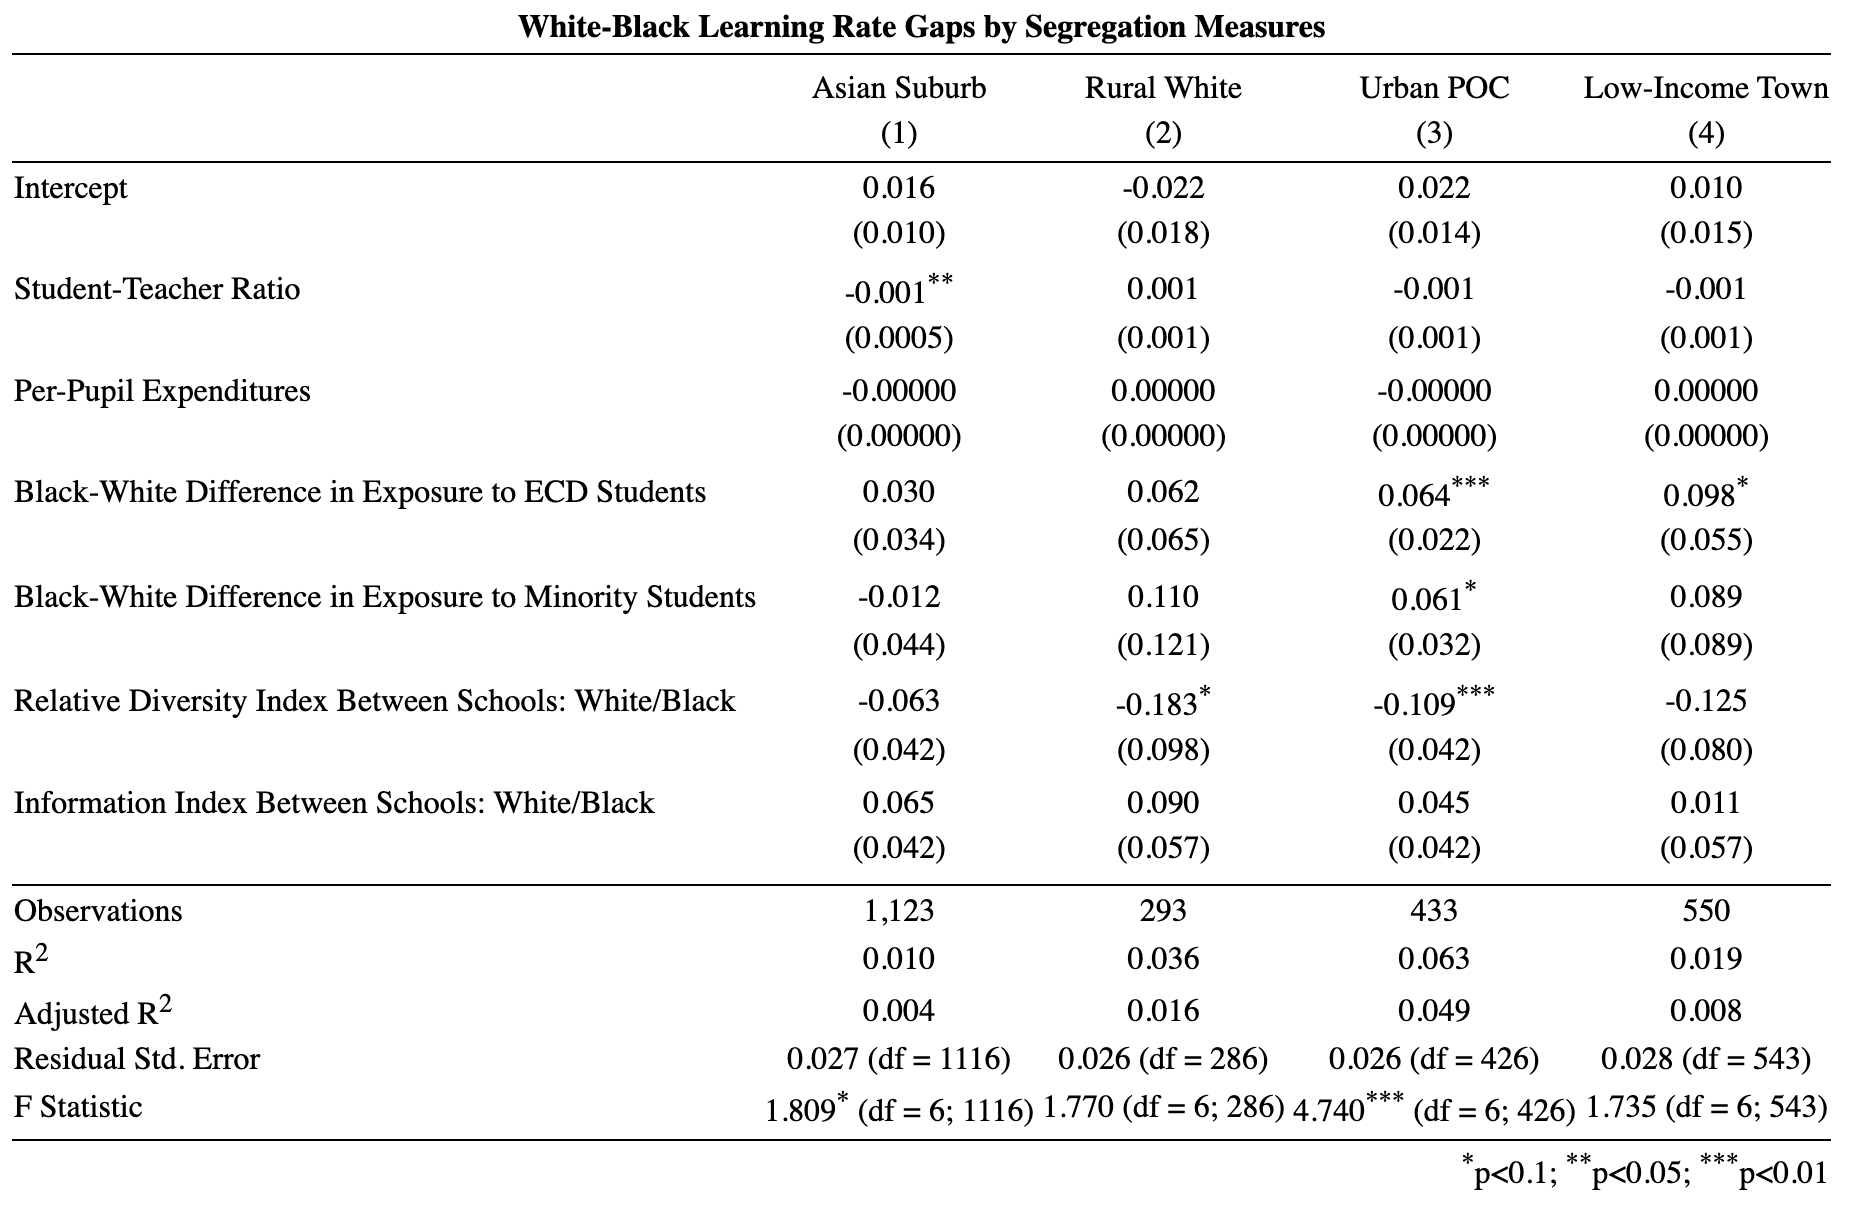
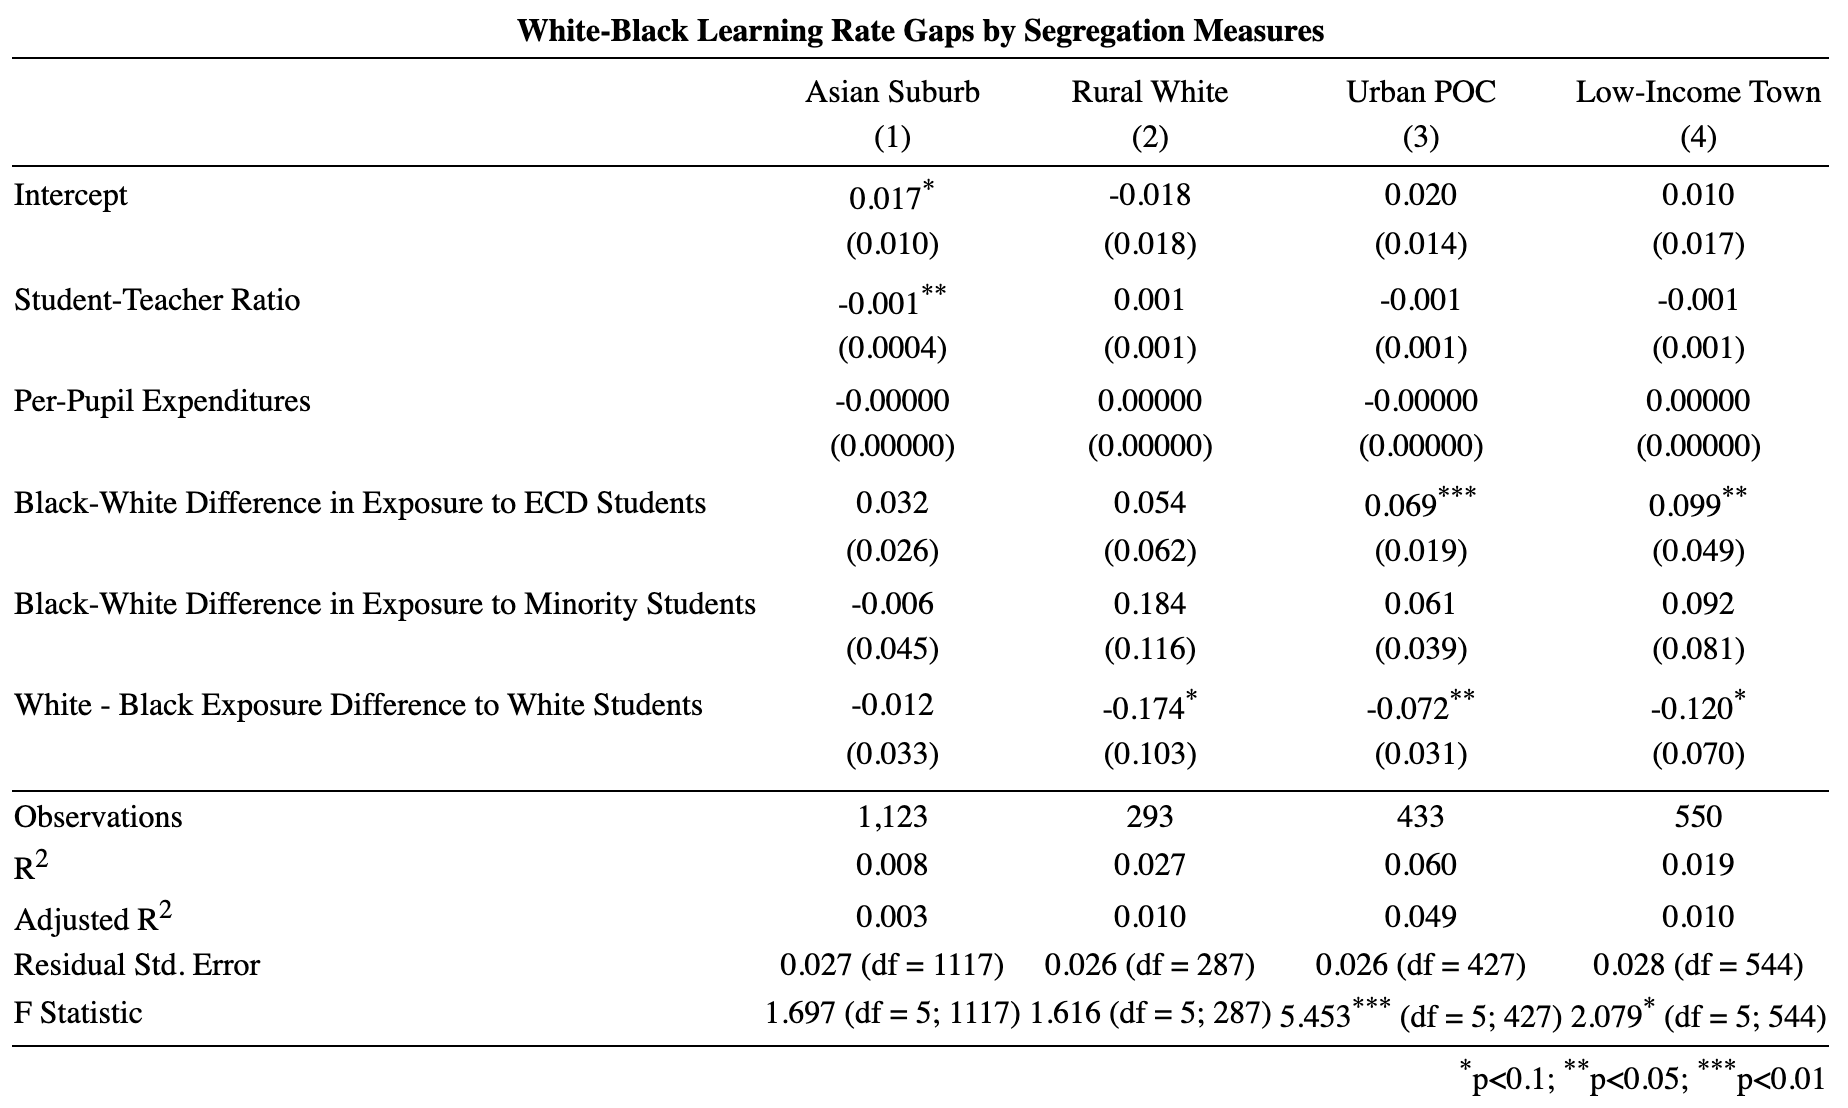
updated with robust standard errors

diff --git a/data/whg_regressiontable.html b/data/whg_regressiontable.html
@@ -3,31 +3,28 @@
 <tr><td colspan="5" style="border-bottom: 1px solid black"></td></tr><tr><td style="text-align:left"></td><td colspan="4"></td></tr>
 <tr><td style="text-align:left"></td><td>Asian Suburb</td><td>Rural White</td><td>Urban POC</td><td>Low-Income Town</td></tr>
 <tr><td style="text-align:left"></td><td>(1)</td><td>(2)</td><td>(3)</td><td>(4)</td></tr>
-<tr><td colspan="5" style="border-bottom: 1px solid black"></td></tr><tr><td style="text-align:left">Intercept</td><td>0.028<sup>***</sup></td><td>-0.072<sup>***</sup></td><td>0.027<sup>*</sup></td><td>-0.019</td></tr>
-<tr><td style="text-align:left"></td><td>(0.010)</td><td>(0.019)</td><td>(0.015)</td><td>(0.014)</td></tr>
+<tr><td colspan="5" style="border-bottom: 1px solid black"></td></tr><tr><td style="text-align:left">Intercept</td><td>0.028<sup>***</sup></td><td>-0.070<sup>***</sup></td><td>0.027</td><td>-0.019</td></tr>
+<tr><td style="text-align:left"></td><td>(0.010)</td><td>(0.019)</td><td>(0.018)</td><td>(0.015)</td></tr>
 <tr><td style="text-align:left"></td><td></td><td></td><td></td><td></td></tr>
-<tr><td style="text-align:left">Student-Teacher Ratio</td><td>-0.002<sup>***</sup></td><td>0.003<sup>**</sup></td><td>-0.002<sup>***</sup></td><td>0.0004</td></tr>
+<tr><td style="text-align:left">Student-Teacher Ratio</td><td>-0.002<sup>***</sup></td><td>0.003<sup>***</sup></td><td>-0.002<sup>***</sup></td><td>0.0003</td></tr>
 <tr><td style="text-align:left"></td><td>(0.0004)</td><td>(0.001)</td><td>(0.001)</td><td>(0.001)</td></tr>
 <tr><td style="text-align:left"></td><td></td><td></td><td></td><td></td></tr>
-<tr><td style="text-align:left">Per-Pupil Expenditures</td><td>-0.00000<sup>*</sup></td><td>0.00000<sup>*</sup></td><td>-0.00000</td><td>0.00000</td></tr>
+<tr><td style="text-align:left">Per-Pupil Expenditures</td><td>-0.00000<sup>*</sup></td><td>0.00000</td><td>-0.00000</td><td>0.00000</td></tr>
 <tr><td style="text-align:left"></td><td>(0.00000)</td><td>(0.00000)</td><td>(0.00000)</td><td>(0.00000)</td></tr>
 <tr><td style="text-align:left"></td><td></td><td></td><td></td><td></td></tr>
-<tr><td style="text-align:left">Hispanic-White Difference in Exposure to ECD Students</td><td>0.067</td><td>0.082</td><td>0.023</td><td>0.091</td></tr>
-<tr><td style="text-align:left"></td><td>(0.043)</td><td>(0.082)</td><td>(0.033)</td><td>(0.063)</td></tr>
+<tr><td style="text-align:left">Hispanic-White Difference in Exposure to ECD Students</td><td>0.067</td><td>0.077</td><td>0.023</td><td>0.093</td></tr>
+<tr><td style="text-align:left"></td><td>(0.047)</td><td>(0.079)</td><td>(0.030)</td><td>(0.069)</td></tr>
 <tr><td style="text-align:left"></td><td></td><td></td><td></td><td></td></tr>
-<tr><td style="text-align:left">Hispanic-White Difference in Exposure to Minority Students</td><td>-0.051</td><td>-0.034</td><td>0.046</td><td>0.021</td></tr>
-<tr><td style="text-align:left"></td><td>(0.054)</td><td>(0.069)</td><td>(0.047)</td><td>(0.064)</td></tr>
+<tr><td style="text-align:left">Hispanic-White Difference in Exposure to Minority Students</td><td>-0.048</td><td>-0.019</td><td>0.045</td><td>0.011</td></tr>
+<tr><td style="text-align:left"></td><td>(0.056)</td><td>(0.077)</td><td>(0.090)</td><td>(0.062)</td></tr>
 <tr><td style="text-align:left"></td><td></td><td></td><td></td><td></td></tr>
-<tr><td style="text-align:left">Relative Diversity Index Between Schools: White/Hispanic</td><td>-0.012</td><td>-0.041</td><td>0.008</td><td>-0.082</td></tr>
-<tr><td style="text-align:left"></td><td>(0.056)</td><td>(0.073)</td><td>(0.057)</td><td>(0.062)</td></tr>
-<tr><td style="text-align:left"></td><td></td><td></td><td></td><td></td></tr>
-<tr><td style="text-align:left">Information Index Between Schools: White/Hispanic</td><td>0.011</td><td>0.046</td><td>-0.004</td><td>-0.021</td></tr>
-<tr><td style="text-align:left"></td><td>(0.058)</td><td>(0.072)</td><td>(0.059)</td><td>(0.060)</td></tr>
+<tr><td style="text-align:left">White - Hispanic Exposure Difference to White Students</td><td>-0.006</td><td>-0.010</td><td>0.005</td><td>-0.094</td></tr>
+<tr><td style="text-align:left"></td><td>(0.051)</td><td>(0.079)</td><td>(0.078)</td><td>(0.066)</td></tr>
 <tr><td style="text-align:left"></td><td></td><td></td><td></td><td></td></tr>
 <tr><td colspan="5" style="border-bottom: 1px solid black"></td></tr><tr><td style="text-align:left">Observations</td><td>1,123</td><td>293</td><td>433</td><td>550</td></tr>
-<tr><td style="text-align:left">R<sup>2</sup></td><td>0.022</td><td>0.030</td><td>0.068</td><td>0.010</td></tr>
-<tr><td style="text-align:left">Adjusted R<sup>2</sup></td><td>0.017</td><td>0.010</td><td>0.055</td><td>-0.001</td></tr>
-<tr><td style="text-align:left">Residual Std. Error</td><td>0.026 (df = 1116)</td><td>0.027 (df = 286)</td><td>0.029 (df = 426)</td><td>0.027 (df = 543)</td></tr>
-<tr><td style="text-align:left">F Statistic</td><td>4.197<sup>***</sup> (df = 6; 1116)</td><td>1.467 (df = 6; 286)</td><td>5.191<sup>***</sup> (df = 6; 426)</td><td>0.920 (df = 6; 543)</td></tr>
+<tr><td style="text-align:left">R<sup>2</sup></td><td>0.022</td><td>0.028</td><td>0.068</td><td>0.010</td></tr>
+<tr><td style="text-align:left">Adjusted R<sup>2</sup></td><td>0.018</td><td>0.012</td><td>0.057</td><td>0.001</td></tr>
+<tr><td style="text-align:left">Residual Std. Error</td><td>0.026 (df = 1117)</td><td>0.027 (df = 287)</td><td>0.029 (df = 427)</td><td>0.027 (df = 544)</td></tr>
+<tr><td style="text-align:left">F Statistic</td><td>5.034<sup>***</sup> (df = 5; 1117)</td><td>1.683 (df = 5; 287)</td><td>6.243<sup>***</sup> (df = 5; 427)</td><td>1.082 (df = 5; 544)</td></tr>
 <tr><td colspan="5" style="border-bottom: 1px solid black"></td></tr><tr><td colspan="5" style="text-align:right"><sup>*</sup>p<0.1; <sup>**</sup>p<0.05; <sup>***</sup>p<0.01</td></tr>
 </table>

diff --git a/data/neg_regressiontable.html b/data/neg_regressiontable.html
@@ -3,31 +3,25 @@
 <tr><td colspan="5" style="border-bottom: 1px solid black"></td></tr><tr><td style="text-align:left"></td><td colspan="4"></td></tr>
 <tr><td style="text-align:left"></td><td>Asian Suburb</td><td>Rural White</td><td>Urban POC</td><td>Low-Income Town</td></tr>
 <tr><td style="text-align:left"></td><td>(1)</td><td>(2)</td><td>(3)</td><td>(4)</td></tr>
-<tr><td colspan="5" style="border-bottom: 1px solid black"></td></tr><tr><td style="text-align:left">Intercept</td><td>0.027<sup>***</sup></td><td>-0.048<sup>***</sup></td><td>0.031<sup>*</sup></td><td>-0.023<sup>*</sup></td></tr>
-<tr><td style="text-align:left"></td><td>(0.008)</td><td>(0.014)</td><td>(0.016)</td><td>(0.013)</td></tr>
+<tr><td colspan="5" style="border-bottom: 1px solid black"></td></tr><tr><td style="text-align:left">Intercept</td><td>0.027<sup>***</sup></td><td>-0.034<sup>**</sup></td><td>0.034<sup>*</sup></td><td>-0.020</td></tr>
+<tr><td style="text-align:left"></td><td>(0.009)</td><td>(0.014)</td><td>(0.019)</td><td>(0.012)</td></tr>
 <tr><td style="text-align:left"></td><td></td><td></td><td></td><td></td></tr>
-<tr><td style="text-align:left">Student-Teacher Ratio</td><td>-0.001<sup>**</sup></td><td>0.003<sup>***</sup></td><td>-0.002<sup>**</sup></td><td>0.001</td></tr>
+<tr><td style="text-align:left">Student-Teacher Ratio</td><td>-0.001<sup>**</sup></td><td>0.002<sup>**</sup></td><td>-0.002<sup>**</sup></td><td>0.001</td></tr>
 <tr><td style="text-align:left"></td><td>(0.0004)</td><td>(0.001)</td><td>(0.001)</td><td>(0.001)</td></tr>
 <tr><td style="text-align:left"></td><td></td><td></td><td></td><td></td></tr>
 <tr><td style="text-align:left">Per-Pupil Expenditures</td><td>-0.00000<sup>***</sup></td><td>0.00000</td><td>-0.00000</td><td>0.00000</td></tr>
 <tr><td style="text-align:left"></td><td>(0.00000)</td><td>(0.00000)</td><td>(0.00000)</td><td>(0.00000)</td></tr>
 <tr><td style="text-align:left"></td><td></td><td></td><td></td><td></td></tr>
-<tr><td style="text-align:left">Information Index Between Schools: Free Lunch/Non Free Lunch</td><td>0.478<sup>***</sup></td><td>-0.872<sup>**</sup></td><td>0.005</td><td>-0.477</td></tr>
-<tr><td style="text-align:left"></td><td>(0.105)</td><td>(0.420)</td><td>(0.204)</td><td>(0.337)</td></tr>
+<tr><td style="text-align:left">Non-Free Lunch - Free Lunch Exposure Difference to White Students</td><td>-0.070</td><td>0.018</td><td>-0.030</td><td>-0.112<sup>**</sup></td></tr>
+<tr><td style="text-align:left"></td><td>(0.057)</td><td>(0.103)</td><td>(0.049)</td><td>(0.055)</td></tr>
 <tr><td style="text-align:left"></td><td></td><td></td><td></td><td></td></tr>
-<tr><td style="text-align:left">Information Index Between Schools: ECD/Non-ECD</td><td>-0.270<sup>***</sup></td><td>-0.855<sup>**</sup></td><td>-0.101<sup>*</sup></td><td>-0.139</td></tr>
-<tr><td style="text-align:left"></td><td>(0.081)</td><td>(0.344)</td><td>(0.058)</td><td>(0.119)</td></tr>
-<tr><td style="text-align:left"></td><td></td><td></td><td></td><td></td></tr>
-<tr><td style="text-align:left">Relative Diversity Index Between Schools: Free Lunch/Non Free Lunch</td><td>-0.482<sup>***</sup></td><td>0.820<sup>**</sup></td><td>-0.053</td><td>0.306</td></tr>
-<tr><td style="text-align:left"></td><td>(0.104)</td><td>(0.406)</td><td>(0.191)</td><td>(0.311)</td></tr>
-<tr><td style="text-align:left"></td><td></td><td></td><td></td><td></td></tr>
-<tr><td style="text-align:left">Relative Diversity Index Between Schools: ECD/Non-ECD</td><td>0.300<sup>***</sup></td><td>0.619<sup>*</sup></td><td>0.170<sup>**</sup></td><td>0.245<sup>*</sup></td></tr>
-<tr><td style="text-align:left"></td><td>(0.090)</td><td>(0.330)</td><td>(0.078)</td><td>(0.138)</td></tr>
+<tr><td style="text-align:left">Non-ECD - ECD Exposure Difference to White Students</td><td>0.067</td><td>-0.009</td><td>0.061</td><td>0.128<sup>**</sup></td></tr>
+<tr><td style="text-align:left"></td><td>(0.053)</td><td>(0.138)</td><td>(0.046)</td><td>(0.057)</td></tr>
 <tr><td style="text-align:left"></td><td></td><td></td><td></td><td></td></tr>
 <tr><td colspan="5" style="border-bottom: 1px solid black"></td></tr><tr><td style="text-align:left">Observations</td><td>1,123</td><td>293</td><td>433</td><td>550</td></tr>
-<tr><td style="text-align:left">R<sup>2</sup></td><td>0.034</td><td>0.118</td><td>0.035</td><td>0.034</td></tr>
-<tr><td style="text-align:left">Adjusted R<sup>2</sup></td><td>0.029</td><td>0.099</td><td>0.022</td><td>0.024</td></tr>
-<tr><td style="text-align:left">Residual Std. Error</td><td>0.022 (df = 1116)</td><td>0.020 (df = 286)</td><td>0.030 (df = 426)</td><td>0.025 (df = 543)</td></tr>
-<tr><td style="text-align:left">F Statistic</td><td>6.615<sup>***</sup> (df = 6; 1116)</td><td>6.368<sup>***</sup> (df = 6; 286)</td><td>2.584<sup>**</sup> (df = 6; 426)</td><td>3.218<sup>***</sup> (df = 6; 543)</td></tr>
+<tr><td style="text-align:left">R<sup>2</sup></td><td>0.016</td><td>0.023</td><td>0.026</td><td>0.022</td></tr>
+<tr><td style="text-align:left">Adjusted R<sup>2</sup></td><td>0.013</td><td>0.009</td><td>0.017</td><td>0.014</td></tr>
+<tr><td style="text-align:left">Residual Std. Error</td><td>0.022 (df = 1118)</td><td>0.021 (df = 288)</td><td>0.030 (df = 428)</td><td>0.025 (df = 545)</td></tr>
+<tr><td style="text-align:left">F Statistic</td><td>4.574<sup>***</sup> (df = 4; 1118)</td><td>1.685 (df = 4; 288)</td><td>2.866<sup>**</sup> (df = 4; 428)</td><td>3.015<sup>**</sup> (df = 4; 545)</td></tr>
 <tr><td colspan="5" style="border-bottom: 1px solid black"></td></tr><tr><td colspan="5" style="text-align:right"><sup>*</sup>p<0.1; <sup>**</sup>p<0.05; <sup>***</sup>p<0.01</td></tr>
 </table>

diff --git a/data/wbg_regressiontable.html b/data/wbg_regressiontable.html
@@ -3,31 +3,28 @@
 <tr><td colspan="5" style="border-bottom: 1px solid black"></td></tr><tr><td style="text-align:left"></td><td colspan="4"></td></tr>
 <tr><td style="text-align:left"></td><td>Asian Suburb</td><td>Rural White</td><td>Urban POC</td><td>Low-Income Town</td></tr>
 <tr><td style="text-align:left"></td><td>(1)</td><td>(2)</td><td>(3)</td><td>(4)</td></tr>
-<tr><td colspan="5" style="border-bottom: 1px solid black"></td></tr><tr><td style="text-align:left">Intercept</td><td>0.016</td><td>-0.022</td><td>0.022</td><td>0.010</td></tr>
-<tr><td style="text-align:left"></td><td>(0.010)</td><td>(0.018)</td><td>(0.014)</td><td>(0.015)</td></tr>
+<tr><td colspan="5" style="border-bottom: 1px solid black"></td></tr><tr><td style="text-align:left">Intercept</td><td>0.017<sup>*</sup></td><td>-0.018</td><td>0.020</td><td>0.010</td></tr>
+<tr><td style="text-align:left"></td><td>(0.010)</td><td>(0.018)</td><td>(0.014)</td><td>(0.017)</td></tr>
 <tr><td style="text-align:left"></td><td></td><td></td><td></td><td></td></tr>
 <tr><td style="text-align:left">Student-Teacher Ratio</td><td>-0.001<sup>**</sup></td><td>0.001</td><td>-0.001</td><td>-0.001</td></tr>
-<tr><td style="text-align:left"></td><td>(0.0005)</td><td>(0.001)</td><td>(0.001)</td><td>(0.001)</td></tr>
+<tr><td style="text-align:left"></td><td>(0.0004)</td><td>(0.001)</td><td>(0.001)</td><td>(0.001)</td></tr>
 <tr><td style="text-align:left"></td><td></td><td></td><td></td><td></td></tr>
 <tr><td style="text-align:left">Per-Pupil Expenditures</td><td>-0.00000</td><td>0.00000</td><td>-0.00000</td><td>0.00000</td></tr>
 <tr><td style="text-align:left"></td><td>(0.00000)</td><td>(0.00000)</td><td>(0.00000)</td><td>(0.00000)</td></tr>
 <tr><td style="text-align:left"></td><td></td><td></td><td></td><td></td></tr>
-<tr><td style="text-align:left">Black-White Difference in Exposure to ECD Students</td><td>0.030</td><td>0.062</td><td>0.064<sup>***</sup></td><td>0.098<sup>*</sup></td></tr>
-<tr><td style="text-align:left"></td><td>(0.034)</td><td>(0.065)</td><td>(0.022)</td><td>(0.055)</td></tr>
+<tr><td style="text-align:left">Black-White Difference in Exposure to ECD Students</td><td>0.032</td><td>0.054</td><td>0.069<sup>***</sup></td><td>0.099<sup>**</sup></td></tr>
+<tr><td style="text-align:left"></td><td>(0.026)</td><td>(0.062)</td><td>(0.019)</td><td>(0.049)</td></tr>
 <tr><td style="text-align:left"></td><td></td><td></td><td></td><td></td></tr>
-<tr><td style="text-align:left">Black-White Difference in Exposure to Minority Students</td><td>-0.012</td><td>0.110</td><td>0.061<sup>*</sup></td><td>0.089</td></tr>
-<tr><td style="text-align:left"></td><td>(0.044)</td><td>(0.121)</td><td>(0.032)</td><td>(0.089)</td></tr>
+<tr><td style="text-align:left">Black-White Difference in Exposure to Minority Students</td><td>-0.006</td><td>0.184</td><td>0.061</td><td>0.092</td></tr>
+<tr><td style="text-align:left"></td><td>(0.045)</td><td>(0.116)</td><td>(0.039)</td><td>(0.081)</td></tr>
 <tr><td style="text-align:left"></td><td></td><td></td><td></td><td></td></tr>
-<tr><td style="text-align:left">Relative Diversity Index Between Schools: White/Black</td><td>-0.063</td><td>-0.183<sup>*</sup></td><td>-0.109<sup>***</sup></td><td>-0.125</td></tr>
-<tr><td style="text-align:left"></td><td>(0.042)</td><td>(0.098)</td><td>(0.042)</td><td>(0.080)</td></tr>
-<tr><td style="text-align:left"></td><td></td><td></td><td></td><td></td></tr>
-<tr><td style="text-align:left">Information Index Between Schools: White/Black</td><td>0.065</td><td>0.090</td><td>0.045</td><td>0.011</td></tr>
-<tr><td style="text-align:left"></td><td>(0.042)</td><td>(0.057)</td><td>(0.042)</td><td>(0.057)</td></tr>
+<tr><td style="text-align:left">White - Black Exposure Difference to White Students</td><td>-0.012</td><td>-0.174<sup>*</sup></td><td>-0.072<sup>**</sup></td><td>-0.120<sup>*</sup></td></tr>
+<tr><td style="text-align:left"></td><td>(0.033)</td><td>(0.103)</td><td>(0.031)</td><td>(0.070)</td></tr>
 <tr><td style="text-align:left"></td><td></td><td></td><td></td><td></td></tr>
 <tr><td colspan="5" style="border-bottom: 1px solid black"></td></tr><tr><td style="text-align:left">Observations</td><td>1,123</td><td>293</td><td>433</td><td>550</td></tr>
-<tr><td style="text-align:left">R<sup>2</sup></td><td>0.010</td><td>0.036</td><td>0.063</td><td>0.019</td></tr>
-<tr><td style="text-align:left">Adjusted R<sup>2</sup></td><td>0.004</td><td>0.016</td><td>0.049</td><td>0.008</td></tr>
-<tr><td style="text-align:left">Residual Std. Error</td><td>0.027 (df = 1116)</td><td>0.026 (df = 286)</td><td>0.026 (df = 426)</td><td>0.028 (df = 543)</td></tr>
-<tr><td style="text-align:left">F Statistic</td><td>1.809<sup>*</sup> (df = 6; 1116)</td><td>1.770 (df = 6; 286)</td><td>4.740<sup>***</sup> (df = 6; 426)</td><td>1.735 (df = 6; 543)</td></tr>
+<tr><td style="text-align:left">R<sup>2</sup></td><td>0.008</td><td>0.027</td><td>0.060</td><td>0.019</td></tr>
+<tr><td style="text-align:left">Adjusted R<sup>2</sup></td><td>0.003</td><td>0.010</td><td>0.049</td><td>0.010</td></tr>
+<tr><td style="text-align:left">Residual Std. Error</td><td>0.027 (df = 1117)</td><td>0.026 (df = 287)</td><td>0.026 (df = 427)</td><td>0.028 (df = 544)</td></tr>
+<tr><td style="text-align:left">F Statistic</td><td>1.697 (df = 5; 1117)</td><td>1.616 (df = 5; 287)</td><td>5.453<sup>***</sup> (df = 5; 427)</td><td>2.079<sup>*</sup> (df = 5; 544)</td></tr>
 <tr><td colspan="5" style="border-bottom: 1px solid black"></td></tr><tr><td colspan="5" style="text-align:right"><sup>*</sup>p<0.1; <sup>**</sup>p<0.05; <sup>***</sup>p<0.01</td></tr>
 </table>
